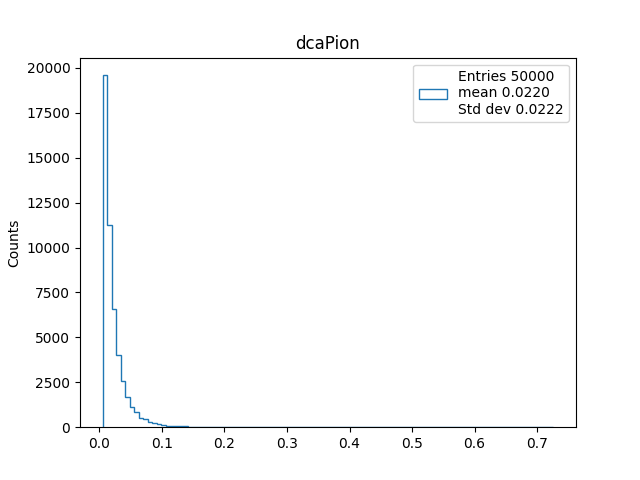
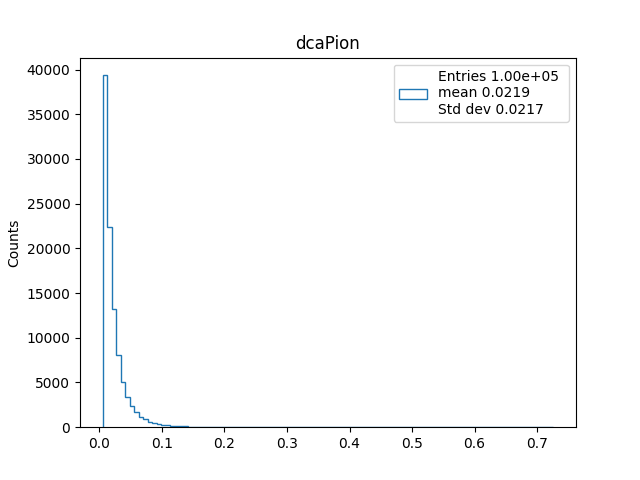
update task2

diff --git a/task2/task2.py b/task2/task2.py
@@ -30,7 +30,7 @@ print(f'Data loaded! Time: {time.time() - start_time:.4f}')
 #print(f'Total entries in file {tot_entries}')
 
 for leaf in labels:
-    entries = 50000
+    entries = 100000
     leaf_index = label_position(labels, leaf)
     arr = array[:entries, leaf_index]
 
